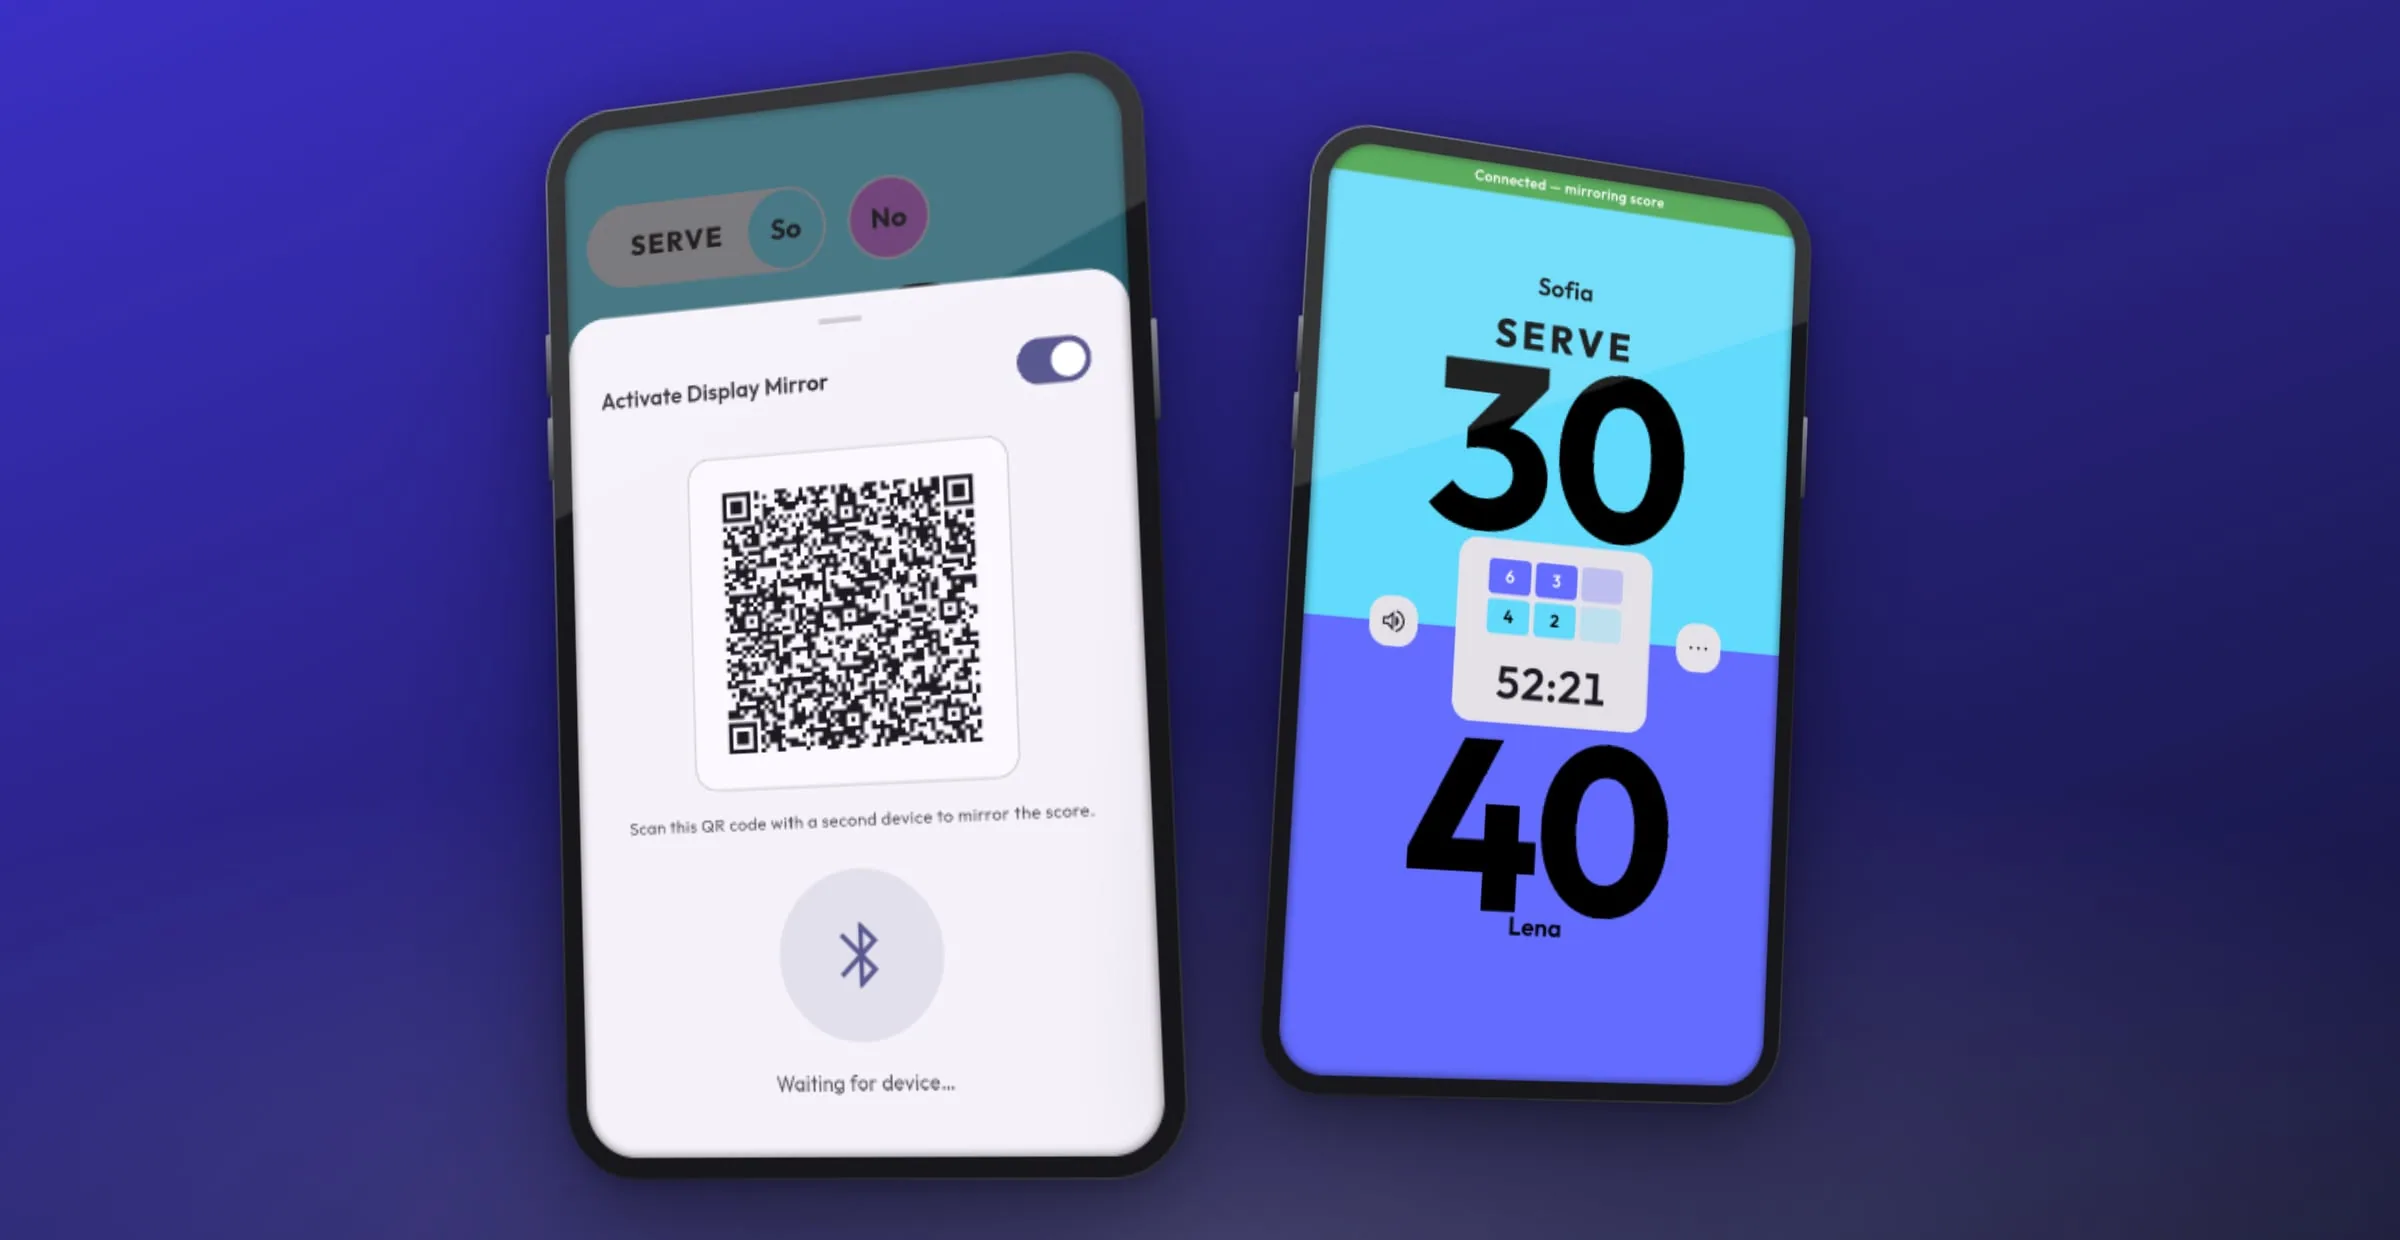
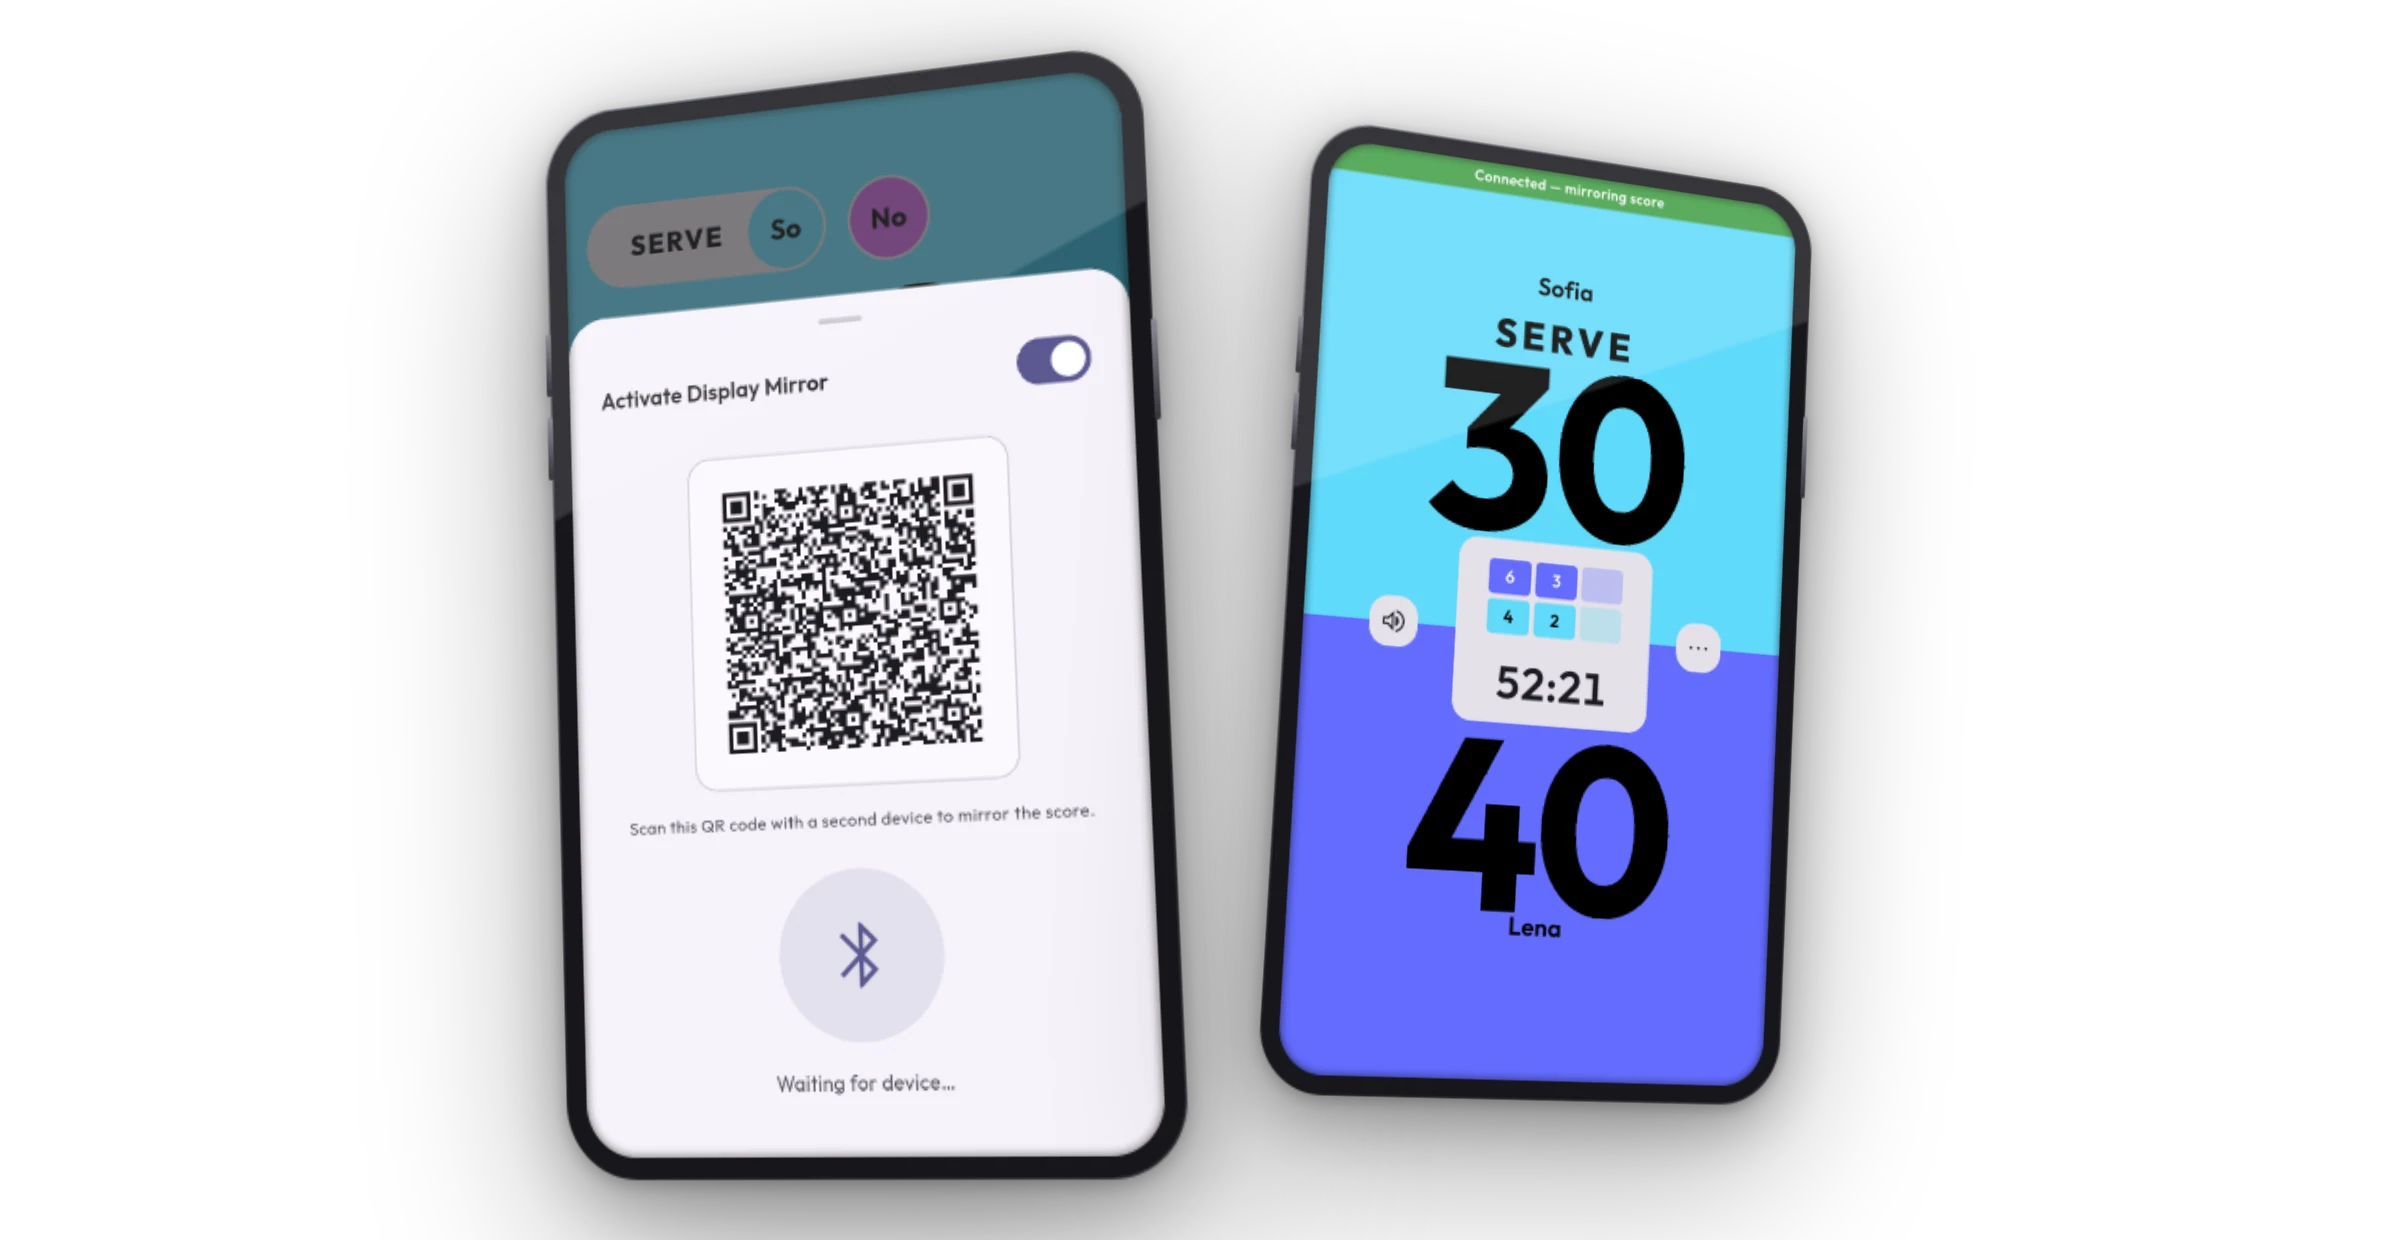
feat(app): unframe the section images, alternate the bands
The images brought their own blue, white and dark-blue backgrounds, so
every section was a coloured rectangle pasted onto the page. They now
arrive on transparency and the page owns the ground: the bands
alternate black and grey down the section, and the devices sit directly
on them.

The image element loses its border, radius and shadow with them. There
is no rectangle left to frame.

Claude-Session: https://claude.ai/code/session_01DSQes332AvYSwypbHAUaki

diff --git a/src/components/AppStorySections.tsx b/src/components/AppStorySections.tsx
@@ -10,6 +10,12 @@ import { getTranslations, type Locale } from '../i18n'
  * locale in the path — a German visitor must not see a French score
  * sheet.
  *
+ * The images carry no background of their own. The devices and the
+ * cropped cards sit on transparency and the band behind them belongs
+ * to the page, alternating black and grey down the section. That is
+ * why the image element has no border, radius or shadow: there is no
+ * rectangle to frame.
+ *
  * Order and ids have to match `storySections` in the i18n files.
  */
 
@@ -26,36 +32,38 @@ export function AppStorySections({ lang = 'de' }: { lang?: Locale }) {
   const t = getTranslations(lang).appStory
 
   return (
-    <section
-      id="app-story"
-      className="w-full bg-zinc-950 border-t border-zinc-800"
-    >
-      <div className="container px-4 md:px-6 mx-auto py-12 md:py-20">
-        <div className="flex flex-col items-center text-center space-y-4 mb-4 md:mb-10">
-          <div className="inline-block rounded-lg bg-emerald-500/10 px-3 py-1 text-sm text-emerald-400 border border-emerald-500/20">
-            {t.badge}
+    <section id="app-story" className="w-full border-t border-zinc-800">
+      <div className="bg-zinc-950">
+        <div className="container px-4 md:px-6 mx-auto pt-12 pb-6 md:pt-20 md:pb-10">
+          <div className="flex flex-col items-center text-center space-y-4">
+            <div className="inline-block rounded-lg bg-emerald-500/10 px-3 py-1 text-sm text-emerald-400 border border-emerald-500/20">
+              {t.badge}
+            </div>
+            <h2 className="text-3xl font-bold tracking-tighter sm:text-5xl">
+              {t.title}{' '}
+              <span className="text-emerald-400">{t.titleAccent}</span>
+            </h2>
+            <p className="max-w-[42rem] text-zinc-400 md:text-lg">
+              {t.description}
+            </p>
           </div>
-          <h2 className="text-3xl font-bold tracking-tighter sm:text-5xl">
-            {t.title} <span className="text-emerald-400">{t.titleAccent}</span>
-          </h2>
-          <p className="max-w-[42rem] text-zinc-400 md:text-lg">
-            {t.description}
-          </p>
         </div>
+      </div>
 
-        <div className="flex flex-col">
-          {SECTION_IDS.map((id, i) => {
-            const item = t.sections[id]
-            // Alternating sides give the eye a rhythm on a long page.
-            // Below md the grid collapses and the kicker and headline
-            // always come first, so the reader knows what they are
-            // looking at before the picture arrives.
-            const imageFirst = i % 2 === 1
-            return (
-              <article
-                key={id}
-                className="grid gap-8 md:gap-12 md:grid-cols-2 items-center py-10 md:py-16 border-t border-zinc-900 first:border-t-0"
-              >
+      {SECTION_IDS.map((id, i) => {
+        const item = t.sections[id]
+        // Alternating sides give the eye a rhythm on a long page.
+        // Below md the grid collapses and the kicker and headline
+        // always come first, so the reader knows what they are
+        // looking at before the picture arrives.
+        const imageFirst = i % 2 === 1
+        return (
+          <div
+            key={id}
+            className={`w-full ${i % 2 === 0 ? 'bg-zinc-950' : 'bg-zinc-900'}`}
+          >
+            <div className="container px-4 md:px-6 mx-auto">
+              <article className="grid gap-8 md:gap-12 md:grid-cols-2 items-center py-12 md:py-20">
                 <div
                   className={
                     imageFirst
@@ -90,14 +98,14 @@ export function AppStorySections({ lang = 'de' }: { lang?: Locale }) {
                     height={1240}
                     loading="lazy"
                     decoding="async"
-                    className="w-full h-auto rounded-2xl border border-zinc-800 shadow-2xl"
+                    className="w-full h-auto"
                   />
                 </div>
               </article>
-            )
-          })}
-        </div>
-      </div>
+            </div>
+          </div>
+        )
+      })}
     </section>
   )
 }
